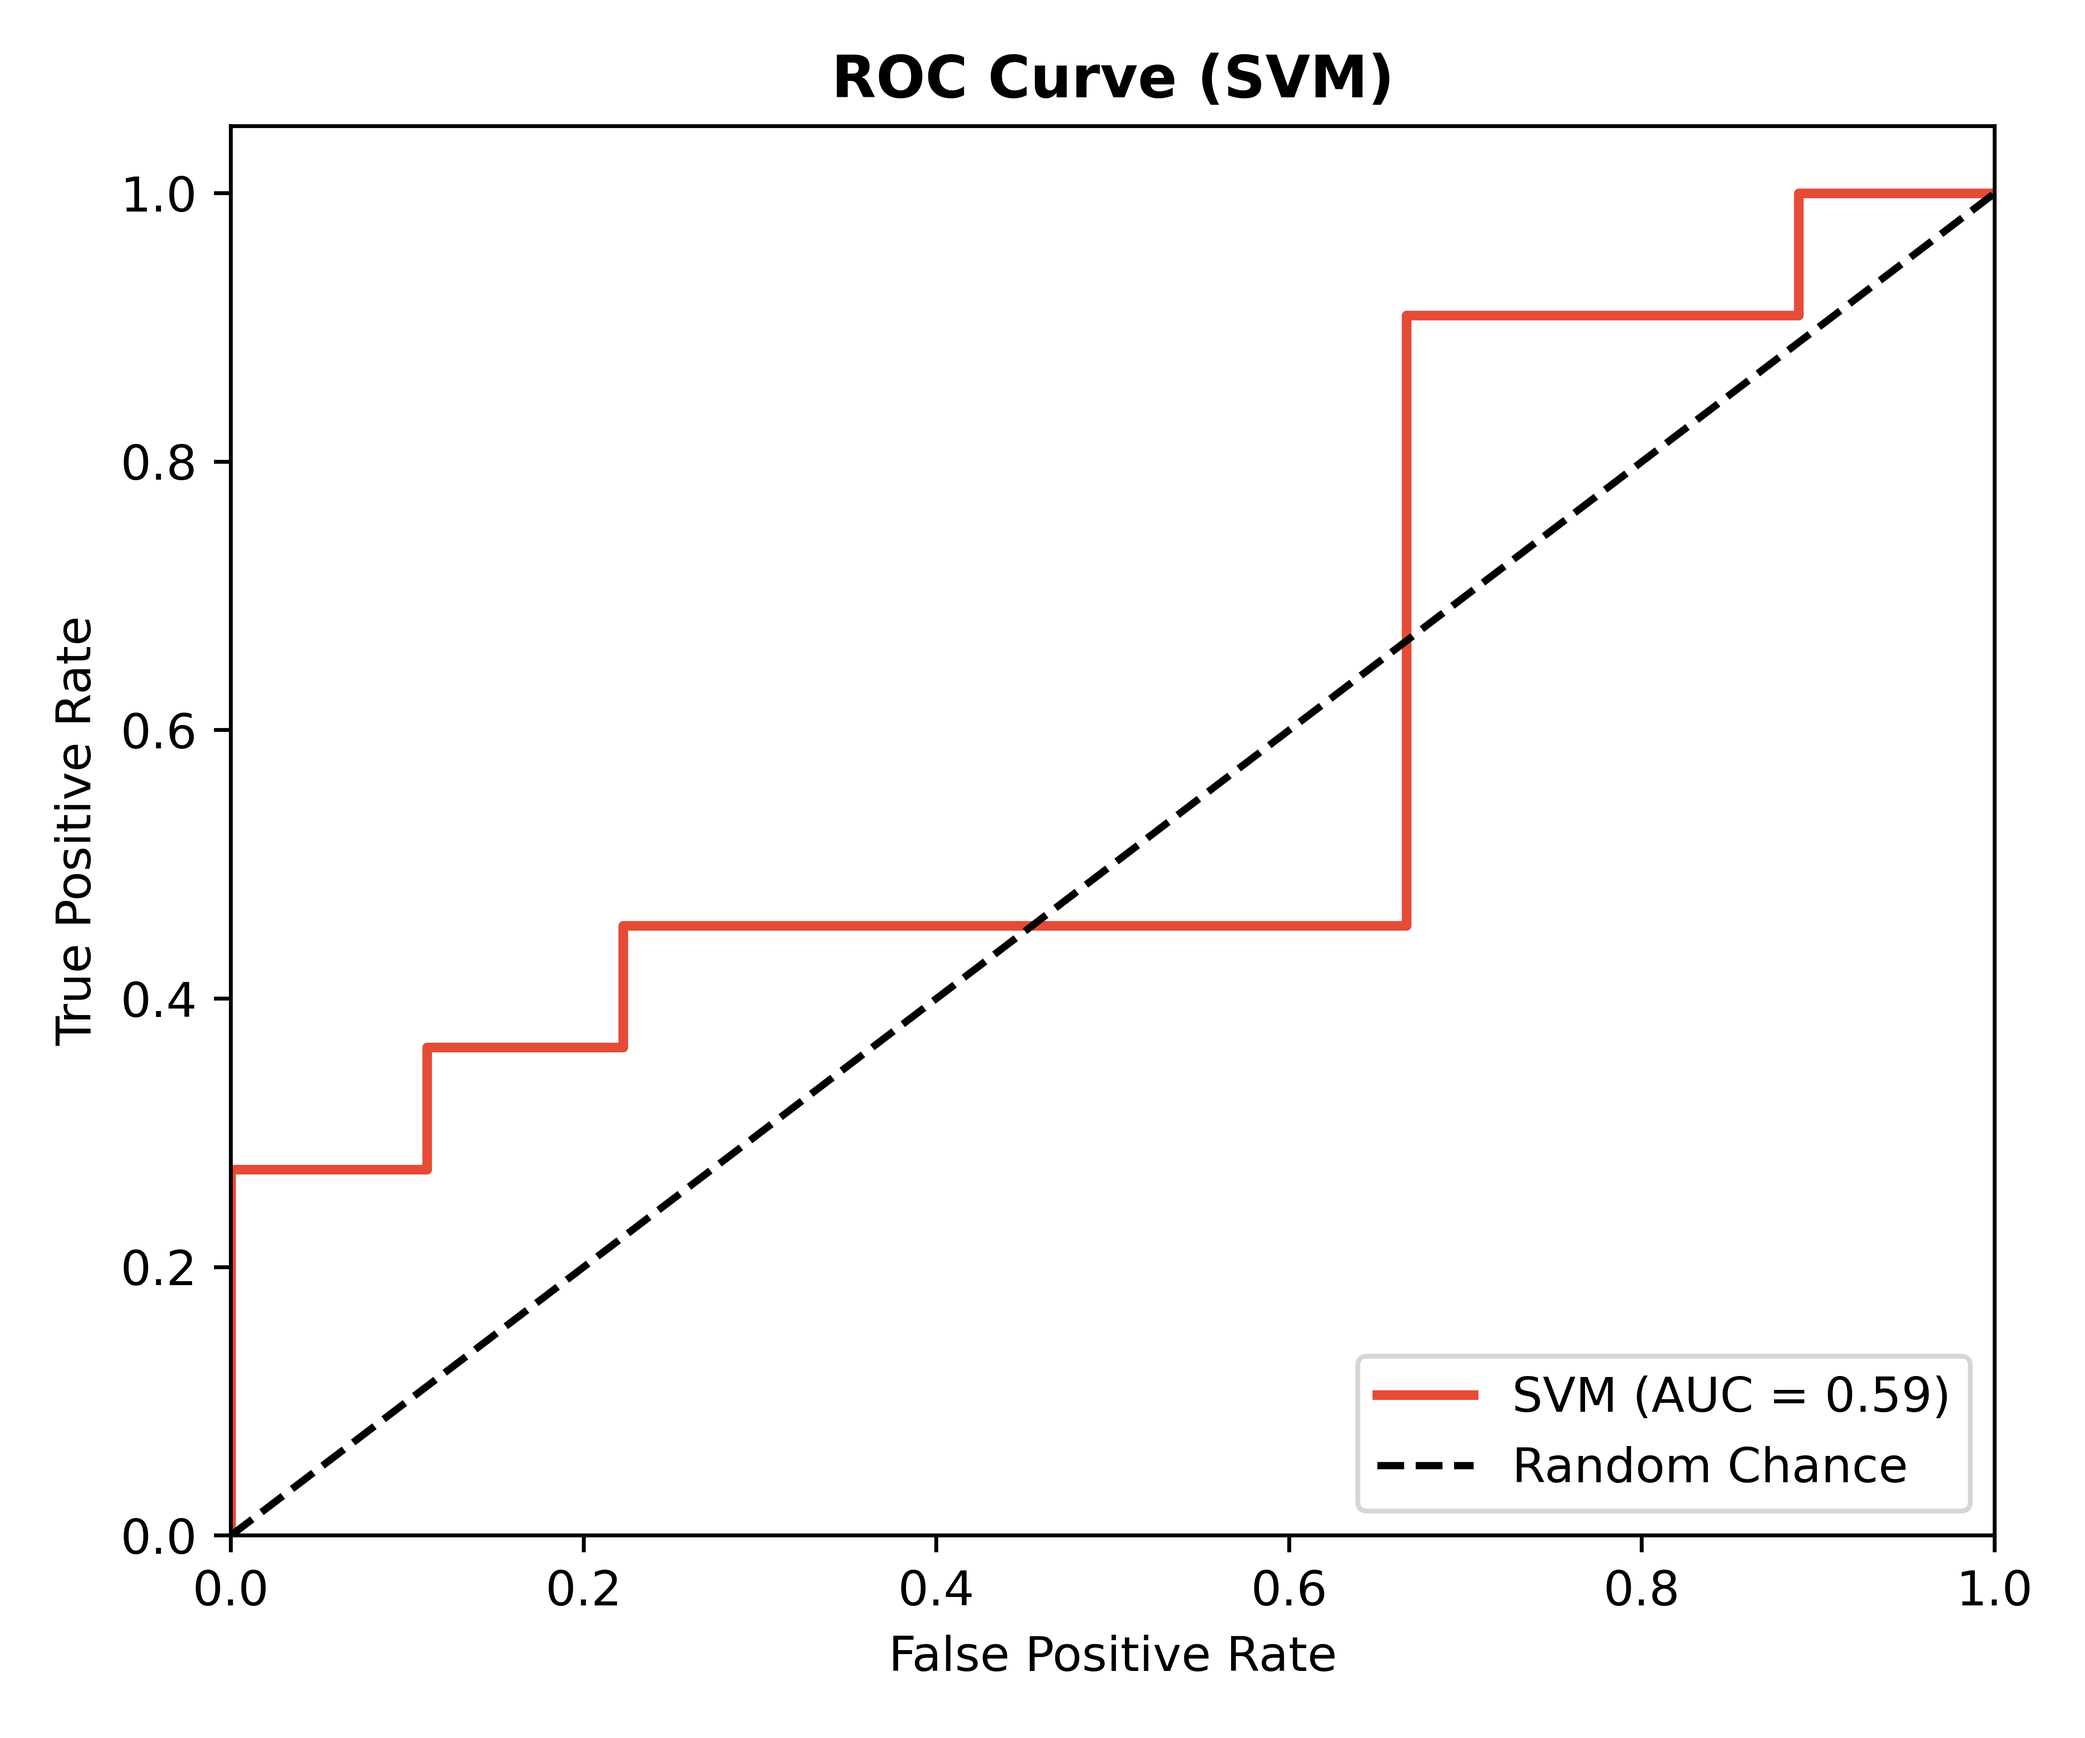
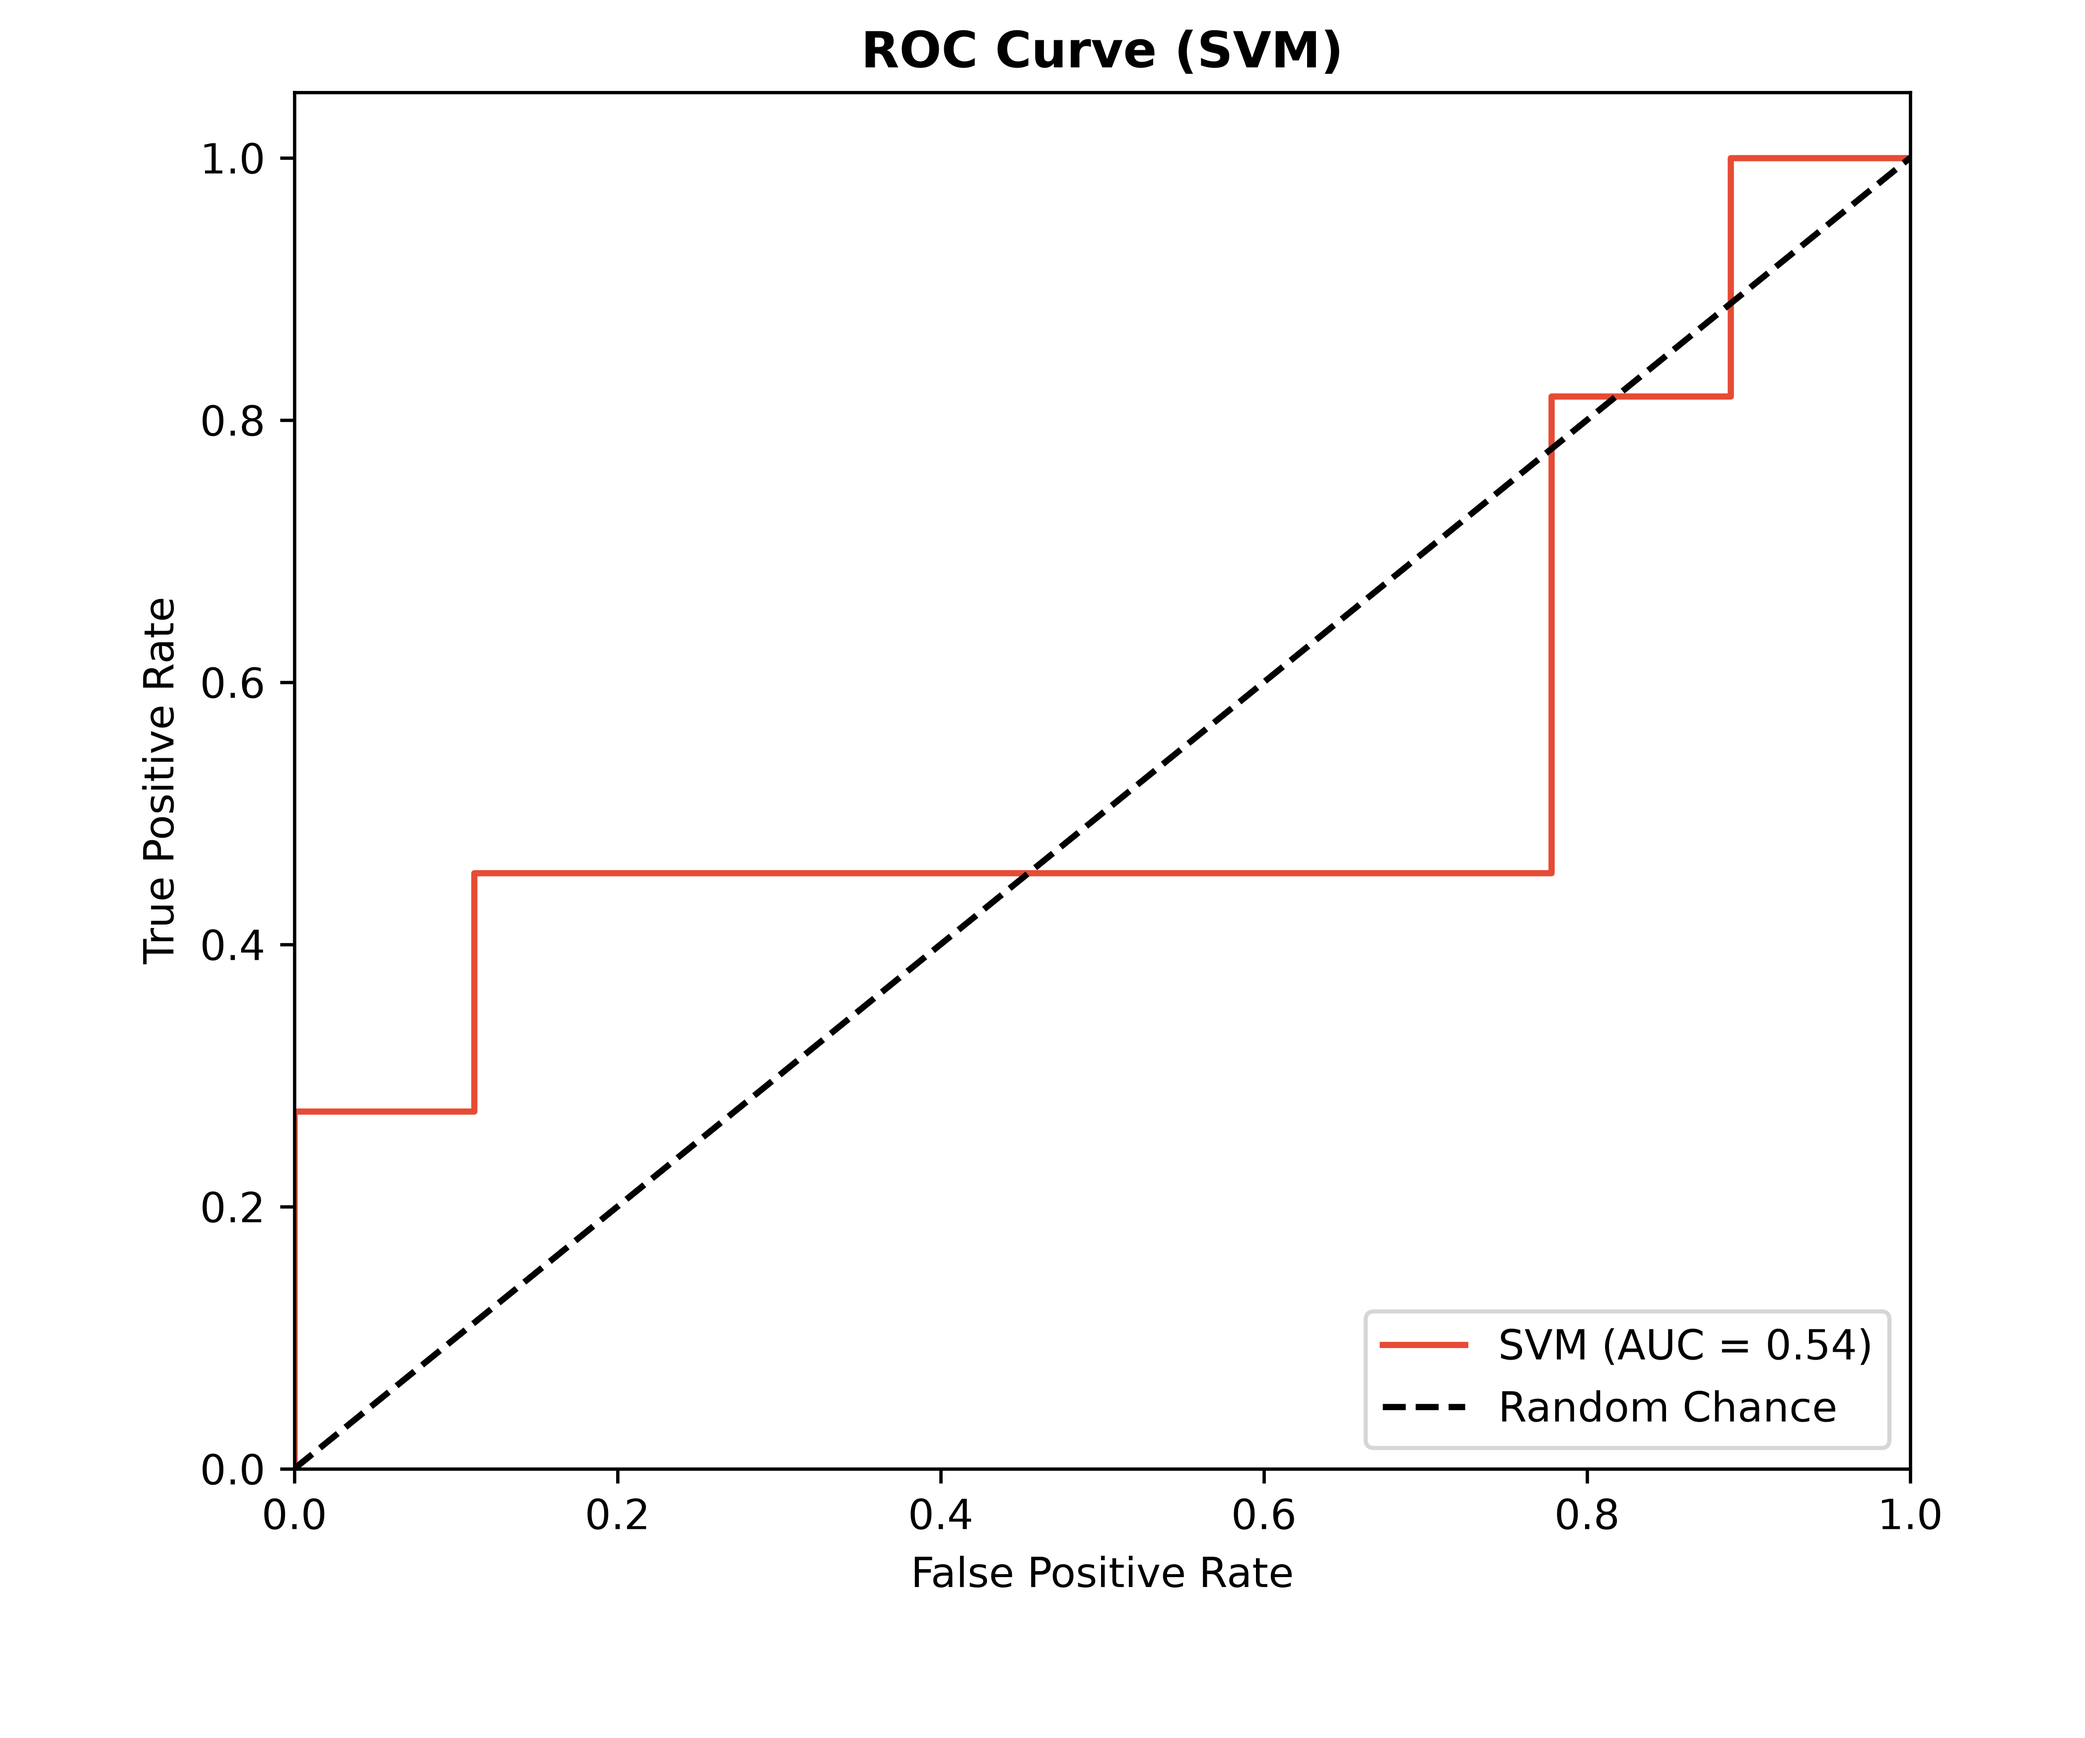
Regenerate ML figures from deterministic re-run
Deterministic sample ordering (sorted(set(...))) in scripts/29_microbiome_ml.py; re-analysis with Python 3.13 / scikit-learn 1.7.1 / seed 42 reproduced all metrics to 4 decimals across two independent runs (96 samples: 43 Case / 53 Control).

- RandomForest: AUC 0.8586, CV 0.6518 +/- 0.1788; test CM [[7,2],[2,9]] (sens 77.8%, spec 81.8%)
- GradientBoosting: AUC 0.8990, CV 0.6071 +/- 0.1500
- LogisticRegression: AUC 0.6010, CV 0.5393 +/- 0.1496
- SVM: AUC 0.5354, CV 0.5054 +/- 0.2050

Replaces stale figures (RF 0.56, GB 0.83, LR 0.79, SVM 0.59).

diff --git a/scripts/29_microbiome_ml.py b/scripts/29_microbiome_ml.py
@@ -78,7 +78,10 @@ if zero_sum_samples.any():
 
 asv_table_normalized = asv_table_df.div(asv_table_df.sum(axis=1), axis=0)
 
-common_samples = list(set(asv_table_normalized.index) & set(metadata_df.index))
+# Deterministic sample ordering: sorting the intersection guarantees the same
+# sample order (and therefore the same train/test split, CV folds and figures)
+# on every run; set iteration order is hash-dependent and not reproducible.
+common_samples = sorted(set(asv_table_normalized.index) & set(metadata_df.index))
 dropped_samples = set(asv_table_normalized.index).symmetric_difference(metadata_df.index)
 print(f"Retained {len(common_samples)} samples. Dropped {len(dropped_samples)} samples.")
 if len(common_samples) == 0:
